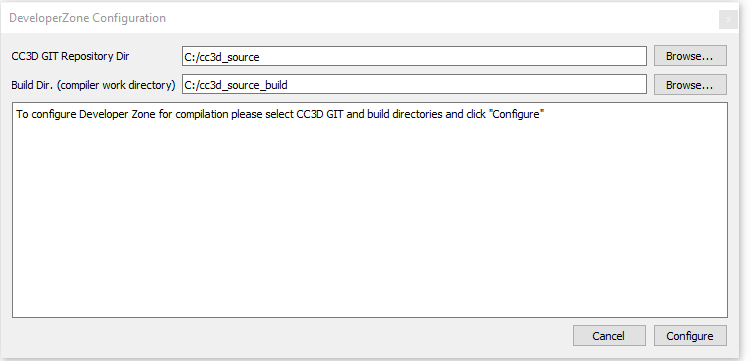
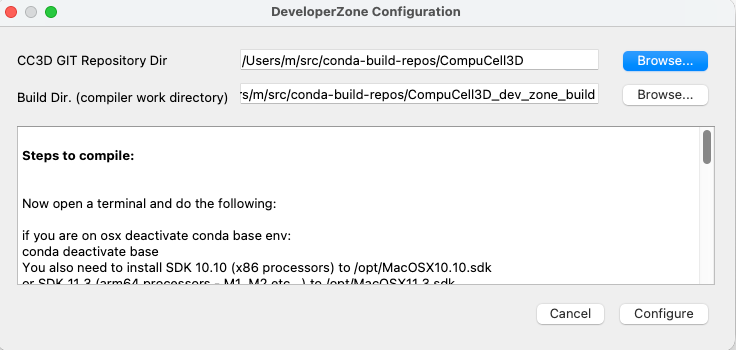
updated documentation for developerzone

diff --git a/docs/configuring_developer_zone.rst b/docs/configuring_developer_zone.rst
@@ -1,130 +1,172 @@
 Configuring DeveloperZone Projects for compilation
 ==================================================
 
-From technical viewpoint ``DeveloperZone`` is a folder that contains source code for additional plugins and steppables
-written in C++. Depending on your needs, sometimes, you want to write high-performance CC3D module that runs much faster
-than equivalent Python code. Up until version 4.3.0 of CC3D developing C++ modules was a little bit involved because
-it required users to install and configure appropriate compilers that will work with provided binaries, performing
-CMake configuration - the challenge here was to make sure that all Cmake variables point to appropriate directories,
-that Python version identified by Cmake matches the one with which CC#D was compiled etc... In practice this process was
-often perceived as quite error-prone.
+``DeveloperZone`` is a source tree for additional C++ plugins, steppables, and
+Python bindings that extend CompuCell3D. Because DeveloperZone builds compiled
+C++ code, the safest workflow is to compile CompuCell3D first and then build
+DeveloperZone with the same compiler, Python, CMake, VTK, SWIG, and conda
+environment. This keeps the C++ ABI, Python version, library paths, and Visual
+Studio or Unix compiler setup consistent between the core CompuCell3D build and
+your extension modules.
 
-Starting with version 4.3.0 of CC3D we provide one-click configurator for "DeveloperZone" All that is required from
-the user is one time setup of compiler (on Windows you will install Visual Studio 2015 Community Edition, and on Mac
-you need to install xcode-select package - all described in sections above. On linux you will likely not need any
-additional setup).
+Prerequisite: compile CompuCell3D first
+---------------------------------------
 
-Once you set up compilers (and install binaries for CC3D) open Twedit++ and go to ``CC3D C++ -> DeveloperZone ...`` .
-This will open the following dialog:
+Before configuring DeveloperZone, complete the full CompuCell3D compilation
+workflow for your platform:
+
+* Linux: :doc:`building_core_cc3d_cpp_code_linux`
+* macOS: :doc:`building_core_cc3d_cpp_code_mac`
+* Windows: :doc:`building_core_cc3d_cpp_code_windows`
+
+Those pages also describe how to clone the repositories. In this section we
+assume the source code is under the same location used by the compilation
+instructions:
+
+* Linux and macOS: ``$HOME/src-cc3d``
+* Windows: ``%USERPROFILE%\src-cc3d``
+
+Launch Twedit++ from the compile environment
+--------------------------------------------
+
+For all platforms, start Twedit++ from a command line where the same conda
+environment used to compile CompuCell3D is active. Do not start Twedit++ from a
+different Python environment or from an unrelated desktop shortcut.
+
+If your compile environment is named ``cc3d-compile``, use:
+
+.. code-block:: console
+
+    conda activate cc3d-compile
+    python -m cc3d.twedit5
+
+Some older Linux and macOS instructions use the environment name
+``cc3d_compile`` instead. If that is the environment you used to compile
+CompuCell3D, activate that exact environment:
+
+.. code-block:: console
+
+    conda activate cc3d_compile
+    python -m cc3d.twedit5
+
+Windows Visual Studio tools
+---------------------------
+
+On Windows, Visual Studio compiler tools must be active in the same console
+session before launching Twedit++. Start from a regular ``cmd.exe`` console,
+activate the x64 Visual Studio tools for the version you used to compile
+CompuCell3D, then activate the conda environment and run Twedit++.
+
+For Visual Studio 2015 x64:
+
+.. code-block:: bat
+
+    call "%ProgramFiles(x86)%\Microsoft Visual Studio 14.0\VC\vcvarsall.bat" x64
+    conda activate cc3d-compile
+    python -m cc3d.twedit5
+
+For Visual Studio 2019 x64:
+
+.. code-block:: bat
+
+    call "%ProgramFiles(x86)%\Microsoft Visual Studio\2019\Community\VC\Auxiliary\Build\vcvars64.bat"
+    conda activate cc3d-compile
+    python -m cc3d.twedit5
+
+For Visual Studio 2026 x64:
+
+.. code-block:: bat
+
+    call "%ProgramFiles%\Microsoft Visual Studio\2026\Community\VC\Auxiliary\Build\vcvars64.bat"
+    conda activate cc3d-compile
+    python -m cc3d.twedit5
+
+If you installed a different Visual Studio edition, such as ``Professional``,
+``Enterprise``, or ``BuildTools``, adjust the edition folder in the path.
+
+Configure DeveloperZone in Twedit++
+-----------------------------------
+
+In Twedit++ choose ``CC3D C++ -> DeveloperZone ...``. This opens the
+DeveloperZone configuration dialog:
 
 |dz_001|
 
-Before going any further, make sure you you have a working copy of the CC3D source code. The best way is to clone CC3D
-source code repository. If you have git installed on your system you are ready to go. If not you can easily do it
-by running ``conda-shell`` script from CC3D installation folder. Assuming your CC3D is installed
-into ``c:\CompuCell3D`` (on Windows) you would run the following:
+Set the fields as follows:
+
+* ``CC3D GIT Repository Dir``: the CompuCell3D repository root.
+* ``Build Dir.``: a new empty directory where CMake will generate build files - this will be prepopulated automatically but you can override it
+* ``Windows CMake generator``: on Windows, select the Visual Studio generator
+  matching the Visual Studio version used to compile CompuCell3D.
+
+Example paths:
 
 .. code-block:: console
 
-    cd c:\
-    c:\CompuCell3D\conda-shell.bat
+    # Linux and macOS
+    CC3D GIT Repository Dir: $HOME/src-cc3d/CompuCell3D
+    Build Dir.:              $HOME/src-cc3d/CompuCell3D_dev_zone_build
 
-then :
+.. code-block:: bat
 
-.. code-block:: console
+    rem Windows
+    CC3D GIT Repository Dir: %USERPROFILE%\src-cc3d\CompuCell3D
+    Build Dir.:              %USERPROFILE%\src-cc3d\CompuCell3D_dev_zone_build
 
-    conda install -c conda-forge git
+The build directory must be empty when DeveloperZone is configured. If you need
+to reconfigure from scratch, remove the old build directory or choose a new one.
 
-At this point you should have ``git`` installed within base environment of the miniconda distribution that
-is bundled with CC3D. In general to make use of any conda tools you would first need to run ``conda-shell`` each time
-you open new terminal.
+After filling in the dialog, click ``Configure``. Twedit++ runs CMake using the
+active conda environment and writes the generated project files to the build
+directory.
 
-Let's clone CC3D source code now. In the terminal where you previously ran ``conda-shell.bat``, do the following
+Build DeveloperZone on Linux and macOS
+--------------------------------------
 
-.. code-block:: console
-
-    cd c:\cc3d_source
-    git clone https://github.com/CompuCell3D/CompuCell3D.git .
-
-This will clone (download) CC3D source code and place it in ``c:\cc3d_source``
-
-Now let's make build directory. This is a directory where compilers will place temporary compilation objects:
-
-.. code-block:: console
-
-    cd c:\
-    mkdir cc3d_source_build
-
-.. warning::
-
-    It is important to create a fresh (empty) build directory before you can configure DeveloperZone configuration. CC3D cannot use build directory that is non empty
-
-
-Now, fill in full path to CC3D repository (``c:\cc3d_source``) and to build folder (``c:\cc3d_source_build``) and  click
-``Configure`` button in the bottom right corner of the dialog. Configuration process will start. After it is done
-the dialog should display summary of what to do next:
-
-|dz_002|
-
-On Windows, we are asked to open a terminal (ideally Visual Studio 2015 64bit shell - search for VS2015 x64 native tools
-in main search menu of Windows operating system, or simply open any terminal on windows) and run the
+After configuration completes, build and install from the same conda
+environment:
 
 .. code-block:: console
 
-    c:\CompuCell3D\conda-shell.ba
+    conda activate cc3d-compile
+    cd $HOME/src-cc3d/CompuCell3D_dev_zone_build
+    make
+    make install
 
-This, in addition to activating base miniconda environment will "preconfigure" the terminal for compilation using
-Visual Studio 2015 Tools. You only need to run this ``conda=shell.bat`` command for "regular" terminal. If you opened
-Visual Studio Terminal you may skip this step
+If your compile environment is named ``cc3d_compile``, activate
+``cc3d_compile`` instead.
 
-Then you run the following:
+Build DeveloperZone on Windows
+------------------------------
 
-.. code-block:: console
+On Windows, use Visual Studio in ``Release`` mode.
 
-    cd C:\cc3d_source_build
+Open the generated solution from the DeveloperZone build directory, for example:
 
-    nmake
-    nmake install
+.. code-block:: bat
 
-First command changes directory to the directory that we designated for storing temporary compilation files. This is
-where the Makefile were generated to.
-Next, we run windows version of ``make`` called ``nmake``.
+    %USERPROFILE%\src-cc3d\CompuCell3D_dev_zone_build\DeveloperZone.sln or ``ALL_BUILD``
 
-|dz_003|
+In Visual Studio:
 
-Once compilation finishes
+* Select the ``Release`` configuration.
+* Select the ``x64`` platform.
+* Build ``ALL_BUILD``.
+* Build ``INSTALL``.
 
-|dz_004|
+You can also build from the same Visual Studio-enabled command prompt:
 
-we install the compiled modules.
+.. code-block:: bat
 
-|dz_005|
+    cd %USERPROFILE%\src-cc3d\CompuCell3D_dev_zone_build
+    cmake --build . --config Release --target ALL_BUILD
+    cmake --build . --config Release --target INSTALL
 
-If you look carefully at the output screen you will see that the modules we compiled will get installed into subfolders
-of ``c:\CompuCell3D\Miniconda3`` which is Miniconda distribution that is part of CC3D installation.
-This is exactly what we want. In other words, with one click and few simple command line commands we were able to
-compile a set of demo extensions modules written in C++. This is significant because this simple procedure allows you
-to easily add new C++ modules and significantly speedup your simulation. From now on you can focus on
-coding rather than figuring out of how to set up compilation
-
-
+The installed DeveloperZone modules are copied into the same conda environment
+used for the core CompuCell3D build. This is the intended result: the extension
+modules are compiled and installed against the same CompuCell3D libraries and
+Python package that were produced by the main build.
 
 .. |dz_001| image:: images/dz_001.png
    :width: 3.725in
    :height: 1.8in
-
-.. |dz_002| image:: images/dz_002.png
-   :width: 3.725in
-   :height: 1.8in
-
-.. |dz_003| image:: images/dz_003.png
-   :width: 1.6in
-   :height: 0.4in
-
-.. |dz_004| image:: images/dz_004.png
-   :width: 5in
-   :height: 3in
-
-.. |dz_005| image:: images/dz_005.png
-   :width: 5in
-   :height: 3in

diff --git a/docs/index.rst b/docs/index.rst
@@ -1,5 +1,5 @@
 ###################################################
-CompuCell3D Developers Manual - 4.7.0
+CompuCell3D Developers Manual - 4.9.0
 ###################################################
 
 The focus of this manual is to explain internals of C++ code and provide all information you need start writing your own
